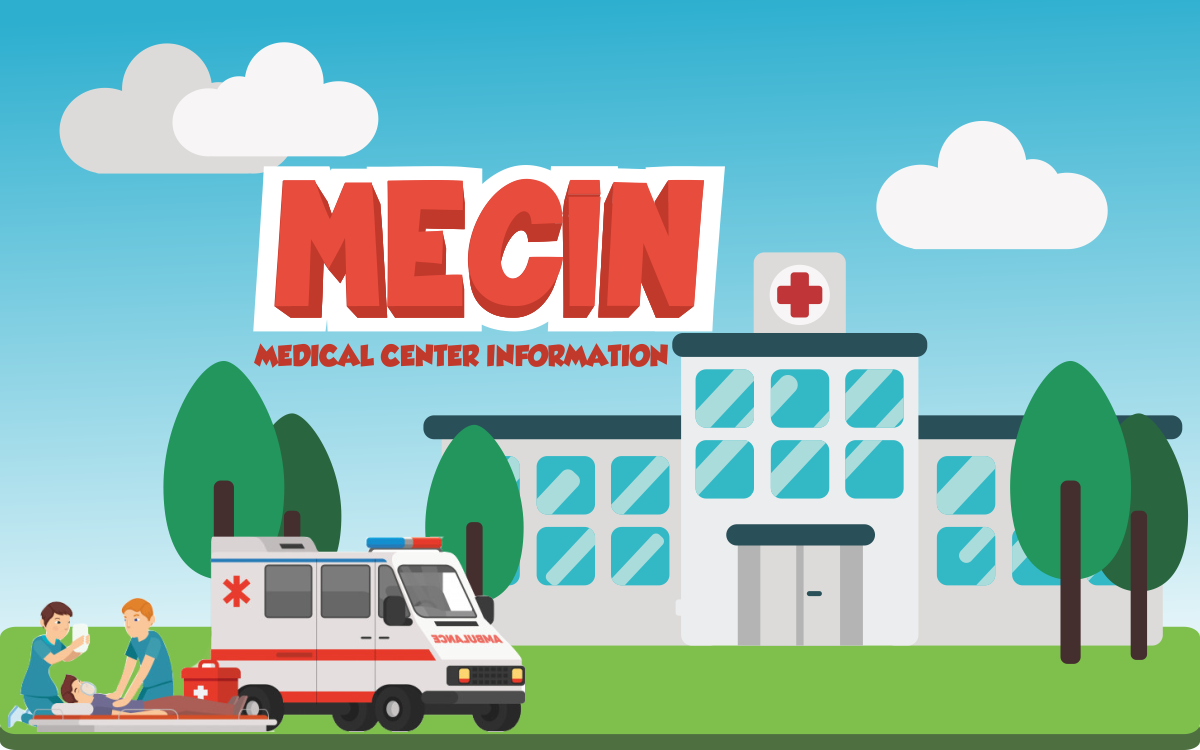
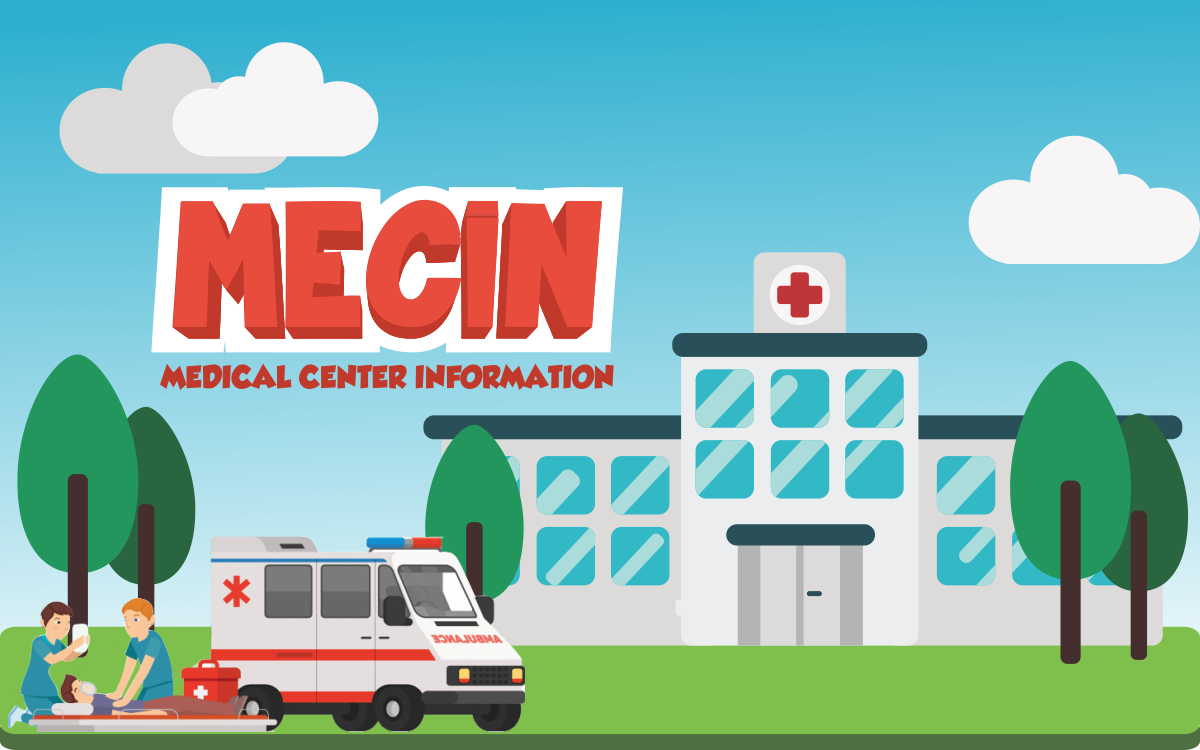
Menambah UI home, help, about, pop up keluar

Changed region(s): [[0.0, 0.2147, 0.6167, 0.8587], [0.7092, 0.1533, 1.0, 0.368]]

diff --git a/TRPL-4B/src/View/HelpView.java b/TRPL-4B/src/View/HelpView.java
@@ -27,23 +27,37 @@ public class HelpView extends javax.swing.JFrame {
     // <editor-fold defaultstate="collapsed" desc="Generated Code">//GEN-BEGIN:initComponents
     private void initComponents() {
 
-        setDefaultCloseOperation(javax.swing.WindowConstants.EXIT_ON_CLOSE);
+        jButton1 = new javax.swing.JButton();
+        jButton2 = new javax.swing.JButton();
+        jLabel1 = new javax.swing.JLabel();
 
-        javax.swing.GroupLayout layout = new javax.swing.GroupLayout(getContentPane());
-        getContentPane().setLayout(layout);
-        layout.setHorizontalGroup(
-            layout.createParallelGroup(javax.swing.GroupLayout.Alignment.LEADING)
-            .addGap(0, 400, Short.MAX_VALUE)
-        );
-        layout.setVerticalGroup(
-            layout.createParallelGroup(javax.swing.GroupLayout.Alignment.LEADING)
-            .addGap(0, 300, Short.MAX_VALUE)
-        );
+        setDefaultCloseOperation(javax.swing.WindowConstants.EXIT_ON_CLOSE);
+        getContentPane().setLayout(new org.netbeans.lib.awtextra.AbsoluteLayout());
+
+        jButton1.setIcon(new javax.swing.ImageIcon(getClass().getResource("/View/Help/btn-back.png"))); // NOI18N
+        jButton1.setBorder(null);
+        jButton1.setBorderPainted(false);
+        jButton1.setContentAreaFilled(false);
+        getContentPane().add(jButton1, new org.netbeans.lib.awtextra.AbsoluteConstraints(380, 640, 140, -1));
+
+        jButton2.setIcon(new javax.swing.ImageIcon(getClass().getResource("/View/Help/btn-exit.png"))); // NOI18N
+        jButton2.setBorder(null);
+        jButton2.setBorderPainted(false);
+        jButton2.setContentAreaFilled(false);
+        getContentPane().add(jButton2, new org.netbeans.lib.awtextra.AbsoluteConstraints(750, 650, 150, -1));
+
+        jLabel1.setBackground(new java.awt.Color(255, 153, 153));
+        jLabel1.setForeground(new java.awt.Color(255, 255, 255));
+        jLabel1.setIcon(new javax.swing.ImageIcon(getClass().getResource("/View/Help/bg-Help.png"))); // NOI18N
+        getContentPane().add(jLabel1, new org.netbeans.lib.awtextra.AbsoluteConstraints(0, 0, 1200, 750));
 
         pack();
     }// </editor-fold>//GEN-END:initComponents
 
 
     // Variables declaration - do not modify//GEN-BEGIN:variables
+    private javax.swing.JButton jButton1;
+    private javax.swing.JButton jButton2;
+    private javax.swing.JLabel jLabel1;
     // End of variables declaration//GEN-END:variables
 }

diff --git a/TRPL-4B/src/View/AboutView.java b/TRPL-4B/src/View/AboutView.java
@@ -27,18 +27,19 @@ public class AboutView extends javax.swing.JFrame {
     // <editor-fold defaultstate="collapsed" desc="Generated Code">//GEN-BEGIN:initComponents
     private void initComponents() {
 
-        setDefaultCloseOperation(javax.swing.WindowConstants.EXIT_ON_CLOSE);
+        jButton1 = new javax.swing.JButton();
+        jLabel1 = new javax.swing.JLabel();
 
-        javax.swing.GroupLayout layout = new javax.swing.GroupLayout(getContentPane());
-        getContentPane().setLayout(layout);
-        layout.setHorizontalGroup(
-            layout.createParallelGroup(javax.swing.GroupLayout.Alignment.LEADING)
-            .addGap(0, 400, Short.MAX_VALUE)
-        );
-        layout.setVerticalGroup(
-            layout.createParallelGroup(javax.swing.GroupLayout.Alignment.LEADING)
-            .addGap(0, 300, Short.MAX_VALUE)
-        );
+        setDefaultCloseOperation(javax.swing.WindowConstants.EXIT_ON_CLOSE);
+        getContentPane().setLayout(new org.netbeans.lib.awtextra.AbsoluteLayout());
+
+        jButton1.setIcon(new javax.swing.ImageIcon(getClass().getResource("/View/About/btn-back.png"))); // NOI18N
+        jButton1.setBorderPainted(false);
+        jButton1.setContentAreaFilled(false);
+        getContentPane().add(jButton1, new org.netbeans.lib.awtextra.AbsoluteConstraints(150, 90, 150, -1));
+
+        jLabel1.setIcon(new javax.swing.ImageIcon(getClass().getResource("/View/About/bg-About.png"))); // NOI18N
+        getContentPane().add(jLabel1, new org.netbeans.lib.awtextra.AbsoluteConstraints(0, 0, 1200, 750));
 
         pack();
     }// </editor-fold>//GEN-END:initComponents
@@ -46,5 +47,7 @@ public class AboutView extends javax.swing.JFrame {
 
 
     // Variables declaration - do not modify//GEN-BEGIN:variables
+    private javax.swing.JButton jButton1;
+    private javax.swing.JLabel jLabel1;
     // End of variables declaration//GEN-END:variables
 }

diff --git a/TRPL-4B/src/View/HomeView.java b/TRPL-4B/src/View/HomeView.java
@@ -66,19 +66,22 @@ public class HomeView extends javax.swing.JFrame {
         getContentPane().add(Button_Tentang, new org.netbeans.lib.awtextra.AbsoluteConstraints(920, 660, 140, 50));
 
         Button_keluar.setIcon(new javax.swing.ImageIcon(getClass().getResource("/View/Home/btn-exit.png"))); // NOI18N
+        Button_keluar.setBorder(null);
         Button_keluar.setBorderPainted(false);
         Button_keluar.setContentAreaFilled(false);
         getContentPane().add(Button_keluar, new org.netbeans.lib.awtextra.AbsoluteConstraints(20, 20, 130, 60));
 
         Label_level1.setHorizontalAlignment(javax.swing.SwingConstants.CENTER);
-        Label_level1.setText("Level 1");
+        Label_level1.setIcon(new javax.swing.ImageIcon(getClass().getResource("/View/Home/icon-lvl1.png"))); // NOI18N
         Label_level1.setOpaque(true);
-        getContentPane().add(Label_level1, new org.netbeans.lib.awtextra.AbsoluteConstraints(890, 160, 110, 140));
+        Label_level1.setRequestFocusEnabled(false);
+        Label_level1.setVerifyInputWhenFocusTarget(false);
+        getContentPane().add(Label_level1, new org.netbeans.lib.awtextra.AbsoluteConstraints(730, 45, 180, 200));
 
         Label_level2.setHorizontalAlignment(javax.swing.SwingConstants.CENTER);
-        Label_level2.setText("Level 2");
+        Label_level2.setIcon(new javax.swing.ImageIcon(getClass().getResource("/View/Home/icon-lvl2.png"))); // NOI18N
         Label_level2.setOpaque(true);
-        getContentPane().add(Label_level2, new org.netbeans.lib.awtextra.AbsoluteConstraints(1040, 160, 110, 140));
+        getContentPane().add(Label_level2, new org.netbeans.lib.awtextra.AbsoluteConstraints(930, 50, 180, 200));
 
         Background.setBackground(new java.awt.Color(255, 102, 102));
         Background.setForeground(new java.awt.Color(255, 204, 204));
